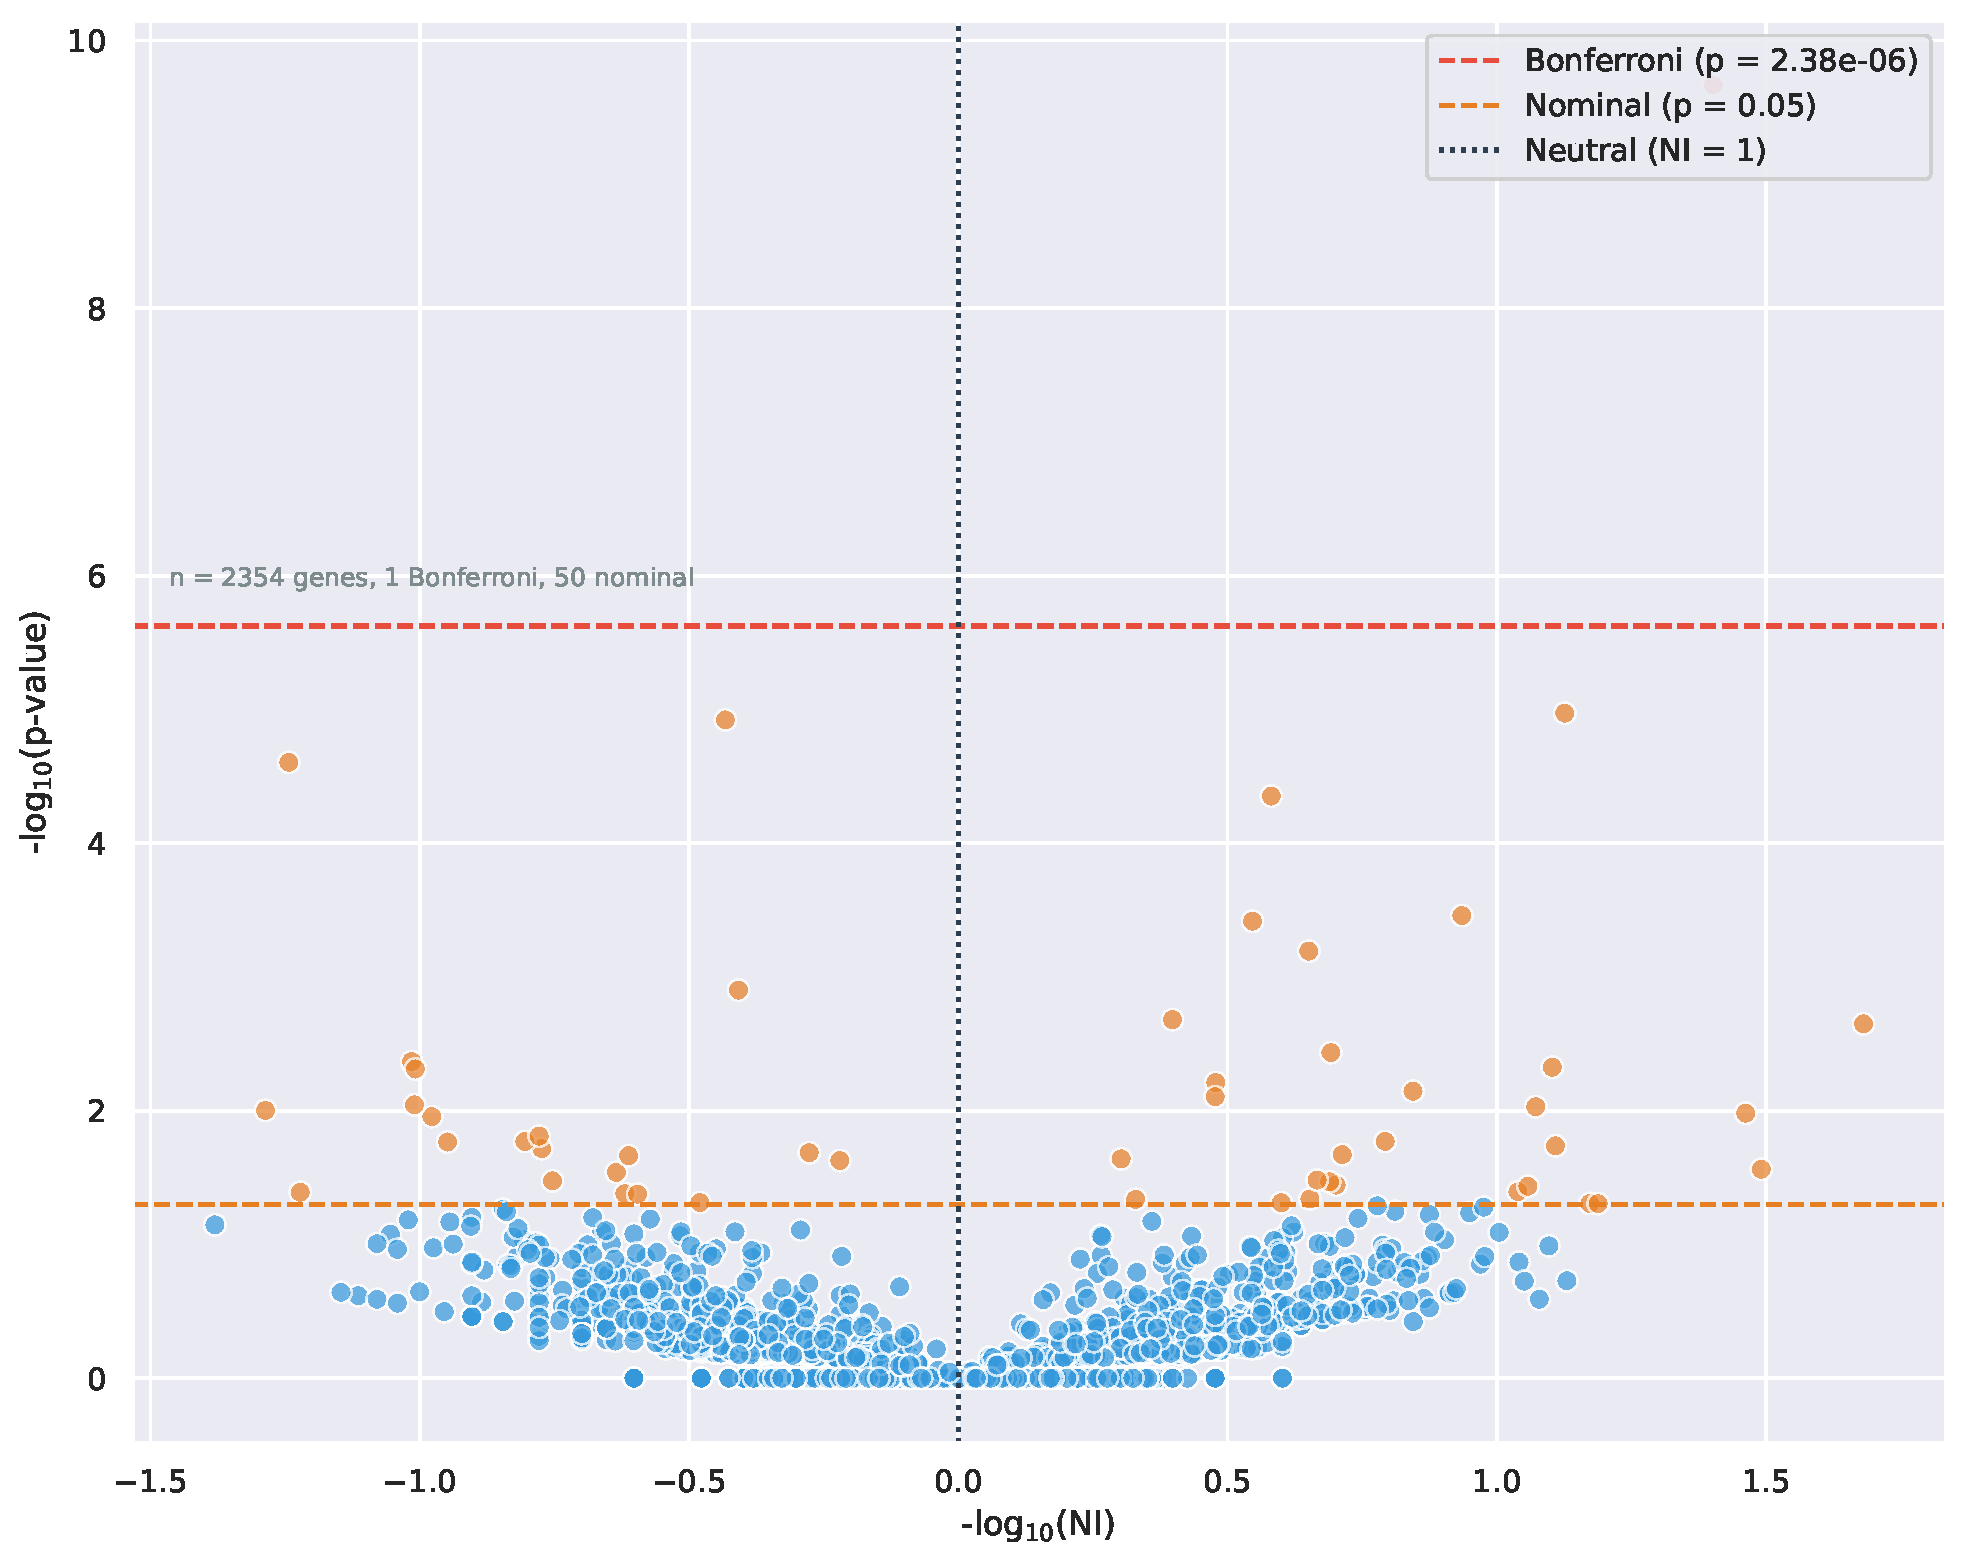
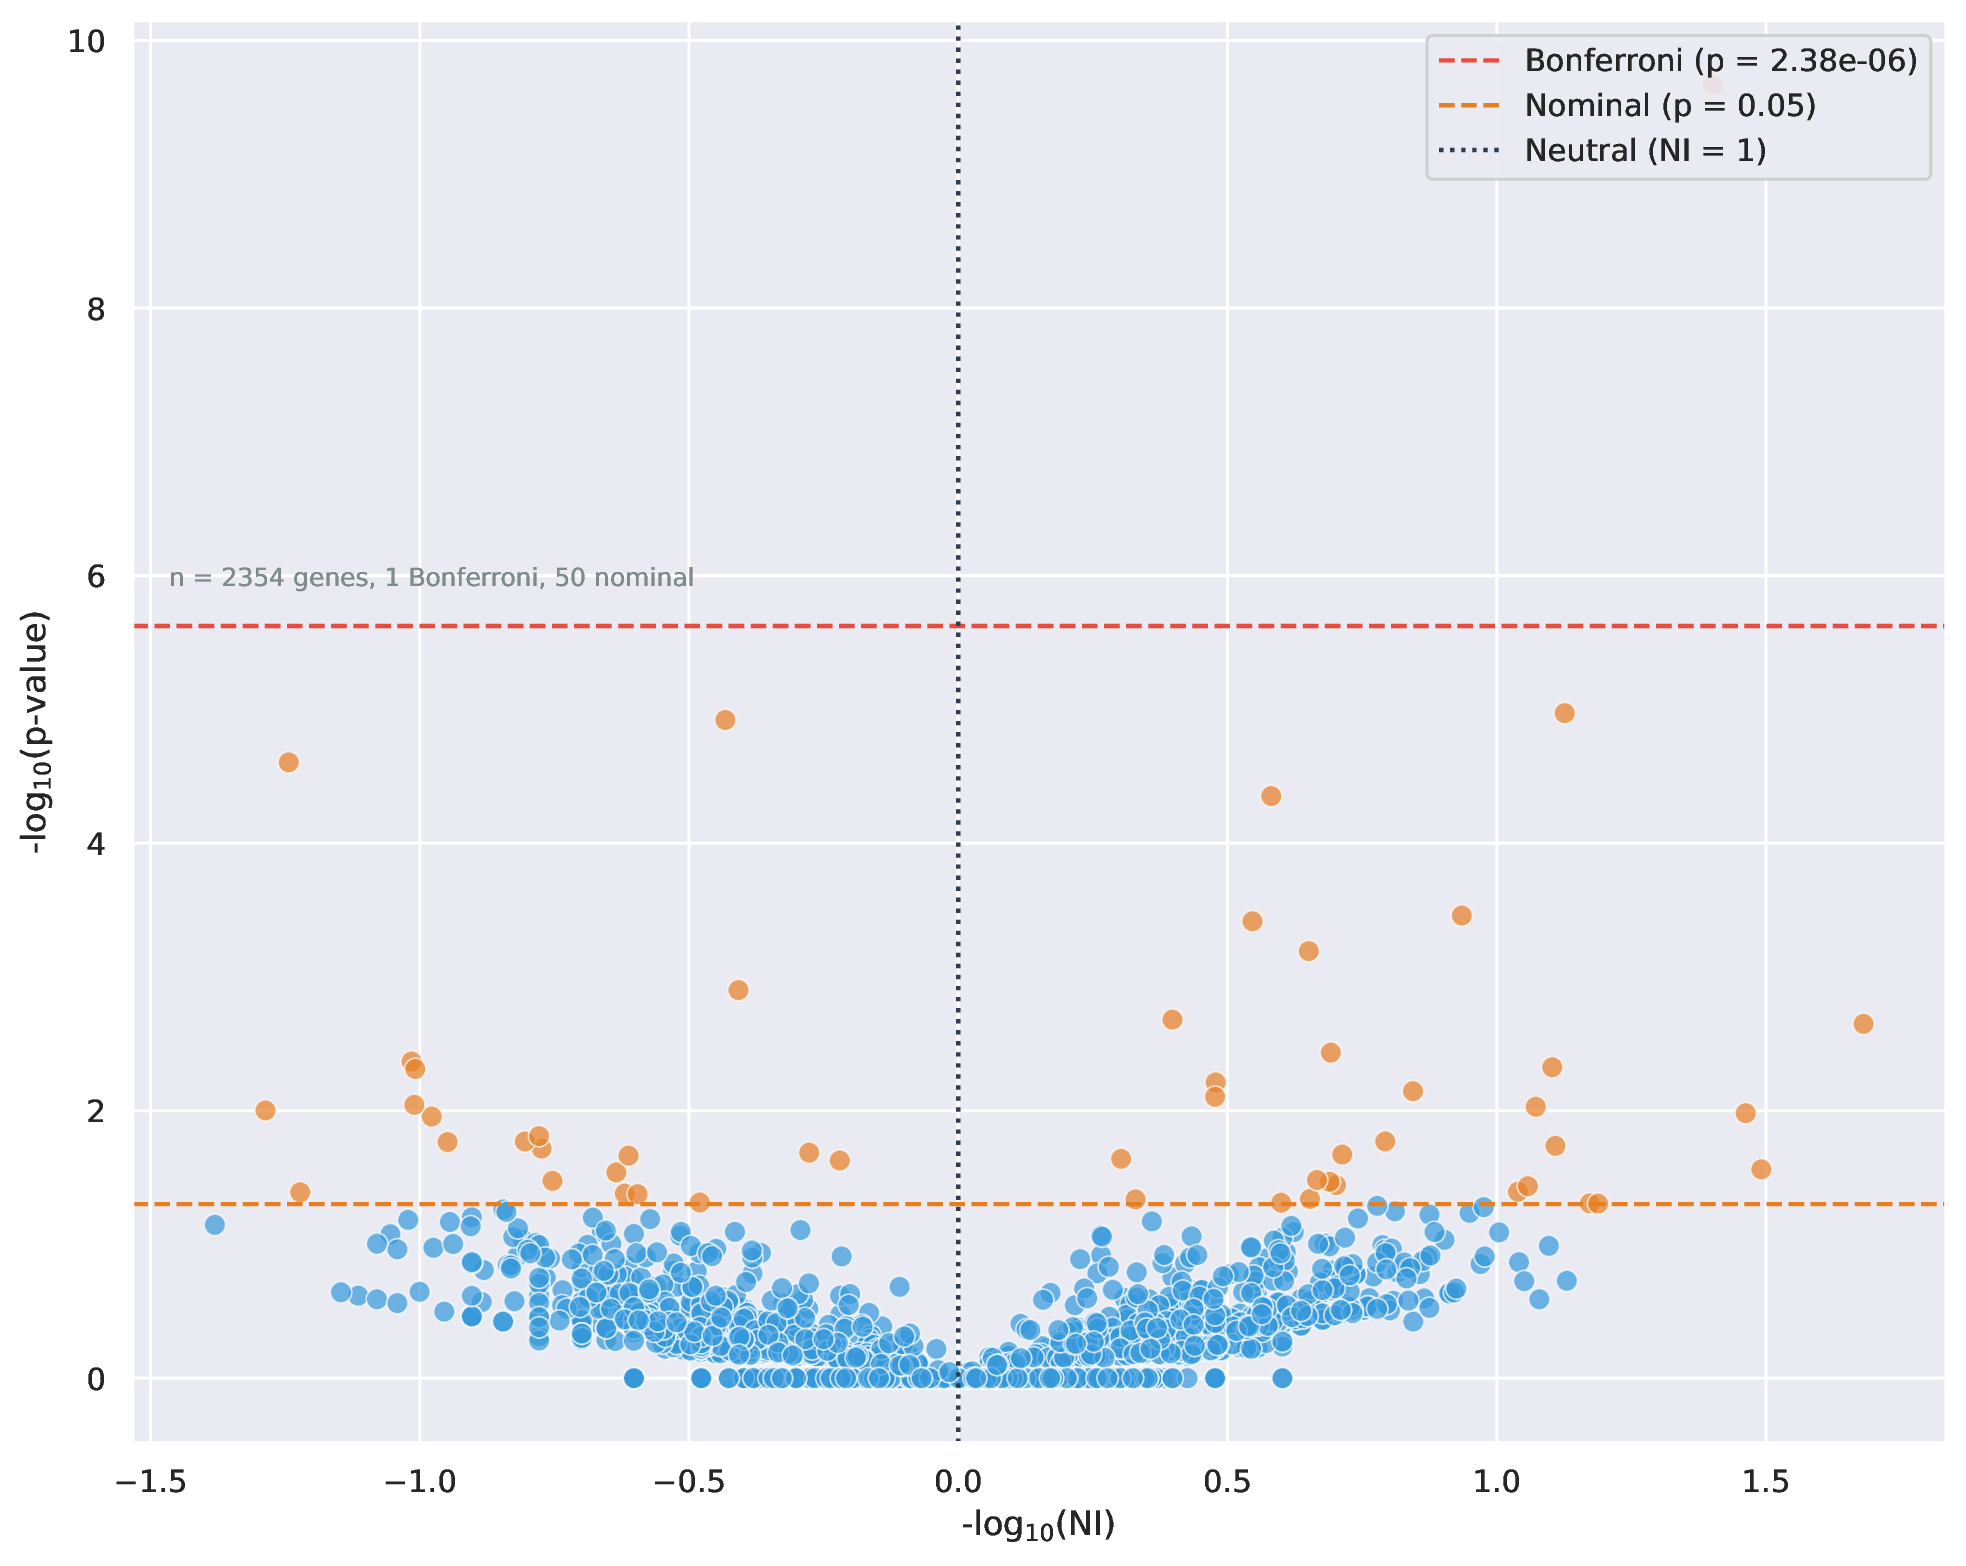
plot_supp_mkado.py: produce the Fig S10 volcano that the supplement uses
The script drew a two-panel alpha/DoS figure (Monte Carlo CI, now superseded by the
bootstrap CI in Table S3) and wrote it outside the repo, while figS10_mkado.png in
the supplement is mkado's volcano plot (mkado_illex/results/coindetii/coindetii.volcano.pdf,
from mkado_illex/scripts/run_mkado.sh). The script now rasterises that PDF at 200 dpi
with Ghostscript into supp_figures/. Same 1966x1566 size as the committed PNG, pixel
differences only from antialiasing.

Changed region(s): [[0.1862, 0.7663, 0.7447, 0.8889]]

diff --git a/scripts/plot_supp_mkado.py b/scripts/plot_supp_mkado.py
@@ -1,76 +1,19 @@
 #!/usr/bin/env python
-"""Supplementary figure: McDonald-Kreitman / adaptive-evolution summary for
-I. illecebrosus vs I. coindetii (mkado results).
+"""Supplementary Fig. S10: per-gene McDonald-Kreitman volcano plot, I. illecebrosus vs I. coindetii.
 
-Panel A: genome-wide alpha, standard-MK vs asymptotic-MK (with Monte-Carlo CI).
-Panel B: per-gene DoS distribution, SF3B4 (LOC_00013210, top FDR-significant
-adaptive gene) highlighted.
-
-Data:
-  results/coindetii/coindetii.asymptotic.tsv  (1-row genome-wide fit)
-  results/coindetii/coindetii.per_gene.tsv    (20,999 genes)
+The figure is mkado's own volcano plot, written by mkado_illex/scripts/run_mkado.sh
+(MK vcf --per-gene --volcano results/coindetii/coindetii.volcano.pdf, mkado 0.5.0). mkado plots
+-log10(NI) against -log10(p) for genes with a finite NI (Dn, Ds, Pn and Ps all > 0, 2,354 of the
+20,999 tested) and draws the Bonferroni line over all tested genes. This script rasterises that PDF
+at 200 dpi to supp_figures/figS10_mkado.png. Requires Ghostscript (gs).
 """
-import sys; sys.path.insert(0, "/sietch_colab/data_share/illex/popgen_data/analysis/manuscript")
-from figstyle import apply, C, despine, save
-apply()
-import matplotlib.pyplot as plt
-import pandas as pd
+import subprocess
+from pathlib import Path
 
-RES = "/sietch_colab/data_share/illex/popgen_data/mkado_illex/results/coindetii"
-OUT = "/sietch_colab/data_share/illex/popgen_data/analysis/manuscript/supp_figures/figS10_mkado.png"
-SF3B4 = "LOC_00013210"
+PDF = Path("/sietch_colab/data_share/illex/popgen_data/mkado_illex/results/coindetii/coindetii.volcano.pdf")
+OUT = Path(__file__).resolve().parent.parent / "supp_figures" / "figS10_mkado.png"
 
-asym = pd.read_csv(f"{RES}/coindetii.asymptotic.tsv", sep="\t").iloc[0]
-genes = pd.read_csv(f"{RES}/coindetii.per_gene.tsv", sep="\t")
-
-# genome-wide pooled standard MK alpha, from the same pooled Dn/Ds/Pn/Ps
-Dn, Ds, Pn, Ps = asym.Dn, asym.Ds, asym.Pn, asym.Ps
-alpha_std = 1 - (Ds * Pn) / (Dn * Ps)
-alpha_asym = asym.alpha_asymptotic
-ci_lo, ci_hi = asym.CI_low, asym.CI_high
-
-sf3b4 = genes.loc[genes.gene == SF3B4].iloc[0]
-
-fig, (axA, axB) = plt.subplots(1, 2, figsize=(7.2, 3.3))
-
-# ---- Panel A: standard vs asymptotic alpha ----
-labels = ["Standard MK", "Asymptotic MK"]
-vals = [alpha_std, alpha_asym]
-colors = [C["muted"], C["accent"]]
-x = [0, 1]
-axA.bar(x, vals, width=0.55, color=colors, zorder=3)
-axA.errorbar(1, alpha_asym, yerr=[[alpha_asym - ci_lo], [ci_hi - alpha_asym]],
-             fmt="none", ecolor=C["ink"], elinewidth=1.2, capsize=4, zorder=4)
-axA.axhline(0, color=C["muted"], linewidth=0.8, zorder=1)
-axA.set_xticks(x, labels)
-axA.set_xlim(-0.6, 1.6)
-axA.set_ylim(-0.1, 4.0)
-axA.set_ylabel(r"$\alpha$ (fraction adaptive substitutions)")
-axA.text(0, alpha_std + 0.08, f"{alpha_std:.2f}", ha="center", va="bottom",
-         fontsize=9, color=C["ink"])
-axA.text(1, ci_hi + 0.08, f"{alpha_asym:.2f}\n(CI {ci_lo:.2f}–{ci_hi:.2f})",
-         ha="center", va="bottom", fontsize=9, color=C["ink"])
-axA.set_title("A", loc="left")
-despine(axA)
-
-# ---- Panel B: per-gene DoS distribution ----
-dos = genes["DoS"].dropna()
-axB.hist(dos, bins=60, color=C["muted"], edgecolor="none", zorder=2)
-axB.axvline(0, color=C["ink"], linewidth=0.8, linestyle=":", zorder=1)
-axB.axvline(sf3b4.DoS, color=C["warm"], linewidth=1.6, zorder=4)
-ymax = axB.get_ylim()[1]
-axB.annotate(
-    "SF3B4\n" + rf"DoS={sf3b4.DoS:.2f}, $\alpha$={sf3b4.alpha:.2f}" + "\n"
-    + rf"$p_{{adj}}$={sf3b4.p_value_adjusted:.1e}",
-    xy=(sf3b4.DoS, ymax * 0.62), xytext=(sf3b4.DoS - 0.62, ymax * 0.78),
-    ha="left", va="bottom", fontsize=8.5, color=C["warm"],
-    arrowprops=dict(arrowstyle="-", color=C["warm"], linewidth=1.0),
-)
-axB.set_xlabel("Direction of Selection (DoS)")
-axB.set_ylabel(f"genes (n={len(dos):,})")
-axB.set_xlim(-1.05, 1.05)
-axB.set_title("B", loc="left")
-despine(axB)
-
-fig.tight_layout()
-save(fig, OUT)
+subprocess.run(["gs", "-q", "-dSAFER", "-dBATCH", "-dNOPAUSE", "-sDEVICE=png16m", "-r200",
+                "-dTextAlphaBits=4", "-dGraphicsAlphaBits=4", f"-sOutputFile={OUT}", str(PDF)],
+               check=True)
+print(f"wrote {OUT}")
